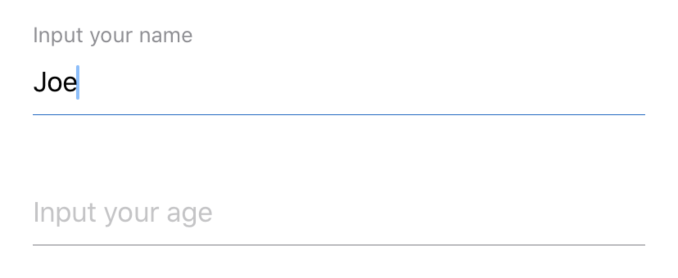
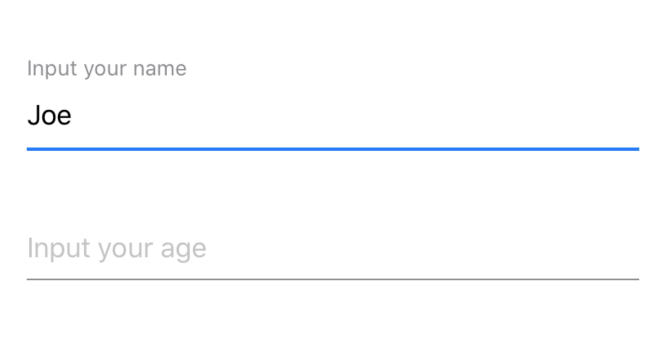
Replace Divider with Rectangle

diff --git a/Sources/FloatingLabelTextField/FloatingLabelTextField.swift b/Sources/FloatingLabelTextField/FloatingLabelTextField.swift
@@ -30,6 +30,8 @@ public struct FloatingLabelTextField: View {
   }
   
   public var body: some View {
+    let lineHeight: CGFloat = self.isActive ? 2 : 1
+    let lineColor = self.isActive ? Color.blue : Color.gray
     
     return VStack(alignment: .leading) {
       Text(placeHolderLabel).font(.footnote).foregroundColor(.gray)
@@ -39,7 +41,14 @@ public struct FloatingLabelTextField: View {
         self.placeHolder = self.placeHolderValue
       }
 
-      Divider().background(self.isActive ? Color.blue : Color.gray)
+//      Divider()
+//        .background(self.isActive ? Color.blue : Color.gray)
+//        .frame(minHeight: 3, idealHeight: 5, maxHeight: 5, alignment: .center)
+      
+      Rectangle()
+        .fill(lineColor)
+        .frame(minHeight: lineHeight, idealHeight: lineHeight, maxHeight: lineHeight, alignment: .center)
+      
     }
     .padding(.horizontal,20)
     .padding(.vertical, 20)
